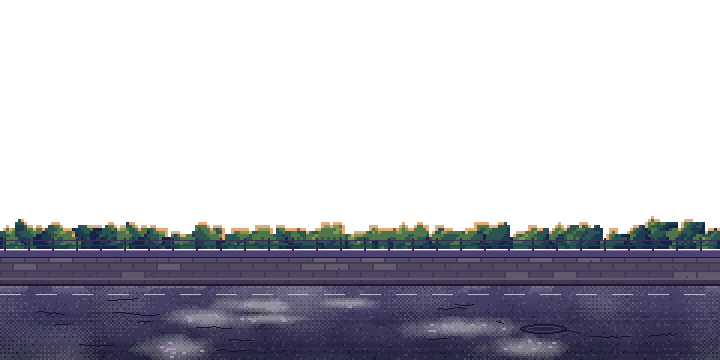
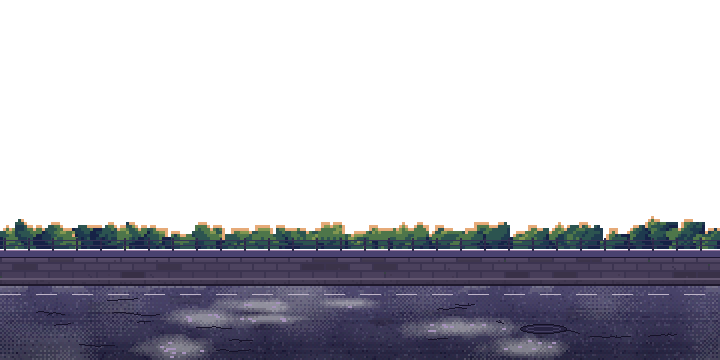
Livelier idle with overlapping action; opaque sidewalk
- Idle breathing now has four whole-pixel poses: shoulders drop first
  (a neck row is doubled, below the chin), the head follows with the
  hair tips lagging (a hair row doubled), then the hair settles (a shirt
  row hidden); each added/hidden row is the quietest in its area. Eight
  frames with the eyes-closed copies, timed by breath_steps.
- Sidewalk slabs, grout and kerb edge are fully opaque, so the
  reflection layers no longer show through damp slabs.

Claude-Session: https://claude.ai/code/session_011NAKRUA9btL4iodwTEM3Dh

diff --git a/tools/make_idle_anim.py b/tools/make_idle_anim.py
@@ -1,16 +1,16 @@
 """Make the idle (standing) frames from the single idle sprite, no video needed.
 
-Pixel-art breathing: the head and shoulders drop by exactly one pixel as a rigid
-block (nothing is stretched or duplicated, so the face keeps its shape); one row of
-the shirt disappears under them. The script picks the shirt row that looks most like
-the row above it, so the missing row doesn't show.
-
-Output: 4 frames side by side, the same size as the input:
-  0 rest, 1 breathed out (upper body 1px lower), 2 and 3 the same with eyes closed
+Pixel-art breathing with overlapping action, whole pixels only (nothing stretched):
+  0 rest
+  1 shoulders 1px down, head still (the neck gains one row)
+  2 head follows, hair tips still up (the hair gains one row)
+  3 everything 1px down, hair settled (one shirt row hidden under the chest)
+then 4-7 are the same four poses with the eyes closed. Every added or hidden row is
+the one in its area that looks most like its neighbour, so the face and chin keep
+their exact shape and no seam shows.
 
 Usage:
-  python3 tools/make_idle_anim.py assets/characters/hero_uniform.png assets/characters/hero_idle.png \\
-      --eyes 11,15 12,15 17,15 18,15
+  python3 tools/make_idle_anim.py assets/characters/hero_uniform.png assets/characters/hero_idle.png
 """
 import argparse
 
@@ -31,11 +31,13 @@ def close_eyes(a, eyes):
     return out
 
 
-def drop_upper(a, row):
-    """Move every row above `row` down one pixel; `row` itself is covered."""
+def drop(a, top, row):
+    """Move rows top..row-1 down one pixel (row `row` is covered). Row `top` keeps its
+    old content, i.e. it is doubled (top = 0 leaves an empty first row instead)."""
     out = a.copy()
-    out[1:row + 1] = a[0:row]
-    out[0] = 0
+    out[top + 1:row + 1] = a[top:row]
+    if top == 0:
+        out[0] = 0
     return out
 
 
@@ -55,14 +57,23 @@ def main():
                     help="x,y of the eye pixels (the white glint and the iris)")
     ap.add_argument("--chest", type=int, nargs=2, default=(36, 56), metavar=("FROM", "TO"),
                     help="shirt rows to choose the hidden row from")
+    ap.add_argument("--neck", type=int, nargs=2, default=(21, 27), metavar=("FROM", "TO"),
+                    help="neck/collar rows to choose the doubled row from (below the chin)")
+    ap.add_argument("--hair", type=int, nargs=2, default=(3, 9), metavar=("FROM", "TO"),
+                    help="hair rows to choose the doubled row from")
     args = ap.parse_args()
     eyes = [tuple(int(v) for v in e.split(",")) for e in args.eyes]
 
     a = np.asarray(Image.open(args.src).convert("RGBA"))
-    row = quiet_row(a, *args.chest)
-    down = drop_upper(a, row)
-    frames = [a, down, close_eyes(a, eyes), close_eyes(down, [(x, y + 1) for x, y in eyes])]
-    print("hidden row", row)
+    chest = quiet_row(a, *args.chest)
+    neck = quiet_row(a, *args.neck)
+    hair = quiet_row(a, *args.hair)
+    shoulders = drop(a, neck, chest)
+    head = drop(a, hair, chest)
+    down = drop(a, 0, chest)
+    poses = [(a, 0), (shoulders, 0), (head, 1), (down, 1)]
+    frames = [p for p, _ in poses] + [close_eyes(p, [(x, y + dy) for x, y in eyes]) for p, dy in poses]
+    print("rows: hair", hair, "neck", neck, "chest", chest)
     h, w = a.shape[:2]
     sheet = Image.new("RGBA", (w * len(frames), h), (0, 0, 0, 0))
     for i, f in enumerate(frames):

diff --git a/tools/compose_sunset_scene.py b/tools/compose_sunset_scene.py
@@ -469,12 +469,12 @@ def tile_noise(h, w, cell, nrng):
 def sidewalk(block=2):
     """Thai sidewalk where the hero walks: rows of concrete paving slabs (smaller far
     away), worn and patched, then a plain concrete kerb down to the street.
-    Mostly opaque: damp slabs only let a little reflection through."""
+    Fully opaque (damp slabs are just darker), so nothing below shows through."""
     sr = random.Random(17)
     w, h = TILE // block, 360 // block
     img = Image.new("RGBA", (w, h), (0, 0, 0, 0))
     d = ImageDraw.Draw(img)
-    grout, moss = (60, 52, 80, 245), (54, 66, 66, 245)
+    grout, moss = (60, 52, 80, 255), (54, 66, 66, 255)
     y = ROAD_TOP // block
     rows = []
     for k, rh in enumerate((3, 4, 4)):                 # slab rows, far to near (foreshortened)
@@ -486,7 +486,7 @@ def sidewalk(block=2):
             tone = sr.uniform(-3, 3) - k * 3                          # subtle: the ground stays quiet
             base = (int(78 + tone), int(68 + tone), int(96 + tone))
             damp = sr.random() < 0.18
-            a = 205 if damp else 245
+            a = 255
             if damp:
                 base = tuple(int(c * 0.8) for c in base)
             xs = [(x % w) for x in range(x0, x0 + 12)]
@@ -499,12 +499,12 @@ def sidewalk(block=2):
                 cx = xs[0] + sr.randint(3, 8)
                 d.line([((cx) % w, y0 + 1), ((cx + 2) % w, y1)], fill=grout)
             if sr.random() < 0.12:                                    # stain
-                d.point(((xs[0] + sr.randint(2, 10)) % w, sr.randint(y0 + 1, y1)), fill=(66, 56, 82, 245))
+                d.point(((xs[0] + sr.randint(2, 10)) % w, sr.randint(y0 + 1, y1)), fill=(66, 56, 82, 255))
             if sr.random() < 0.15:                                    # moss in the joint
                 d.point((xs[0], sr.randint(y0, y1)), fill=moss)
         d.line([(0, y1), (w, y1)], fill=grout)
     ky = KERB_Y // block
-    d.line([(0, ky - 1), (w, ky - 1)], fill=(98, 86, 112, 250))      # kerb top edge, faintly lit
+    d.line([(0, ky - 1), (w, ky - 1)], fill=(98, 86, 112, 255))      # kerb top edge, faintly lit
     for x0 in range(0, w, 18):                                       # plain concrete kerb blocks
         tone = sr.uniform(-6, 6)
         col = (int(66 + tone / 2), int(57 + tone / 2), int(82 + tone / 2), 255)

diff --git a/README.md b/README.md
@@ -50,7 +50,7 @@ assets/textures/         texture พิกเซลสำหรับฉาก H
 - วาดรถไฟฟ้าพิกเซล 4 ตู้ (พิกเซล 2x2) สีขาว/น้ำเงิน/เส้นแดง หน้ารถสีดำ (`make_train`) ล้อวางบนรางหน้าพอดี อยู่ในชั้นของตัวเอง (`TrainLayer`, ความเร็ว parallax เท่าทางรถไฟ ไม่วาดซ้ำ)
   วิ่งผ่านจอจากนอกจอซ้ายไปพ้นจอขวา (`across_screen` ใน `train.gd`)
 - ตัวละครเดินบนทางเท้า (`sidewalk`, พิกเซล 2x2): แผ่นคอนกรีตเรียงสลับ 3 แถว (แถวไกลบีบเล็กกว่า ทางเท้าแคบเพราะมองจากด้านข้าง) มีรอยแตก คราบ มอสตามร่อง
-  แผ่นที่ชื้นเห็นเงาสะท้อนนิดเดียว ขอบทางเท้าเป็นปูนเปลือยลงไปที่ถนน; เงาสะท้อนตัวละครจางและสั้นเพราะทางเท้าไม่ค่อยสะท้อน
+  แผ่นที่ชื้นสีเข้มกว่า (ทึบทั้งหมด ไม่เห็นอะไรทะลุ) ขอบทางเท้าเป็นปูนเปลือยลงไปที่ถนน; เงาสะท้อนตัวละครจางและสั้นเพราะทางเท้าไม่ค่อยสะท้อน
 - วาดถนนยางมะตอย (`road_surface`, พิกเซล 2x2) มีเม็ดหิน รอยปะ คราบน้ำมัน รอยล้อ รอยร้าว ความเปียกไล่ระดับแบบ dither จากแห้งไปแอ่งน้ำ (แอ่งลึกสุดยังเห็นยางมะตอยครึ่งหนึ่ง มีประกายระลอกน้ำ ไม่ใสเป็นกระจก), เงาท้องฟ้า+ทางรถไฟ, เงาสะท้อนรถไฟที่วิ่งตาม (`scripts/follow_x.gd`)
   และเงาสะท้อนตัวละครแบบกลับหัวมีระลอกน้ำ (`shaders/water_reflection.gdshader`)
 - รั้วและแนวพุ่มไม้วาดที่ 1/3 ความละเอียดแล้วขยาย 3 เท่า ให้พิกเซลใหญ่เท่าภาพต้นฉบับ
@@ -92,9 +92,9 @@ assets/textures/         texture พิกเซลสำหรับฉาก H
 python3 tools/make_idle_anim.py assets/characters/hero_uniform.png assets/characters/hero_idle.png
 ```
 
-สร้าง 4 เฟรมจากภาพยืนภาพเดียวแบบพิกเซลอาร์ต: หายใจออก = หัวและไหล่ลง 1px ทั้งก้อน (ไม่ยืด ไม่ซ้ำแถว หน้าจึงไม่เพี้ยน)
-โดยแถวเสื้อที่หายไปคือแถวที่เหมือนแถวข้างบนที่สุด (มองไม่เห็น) และทั้งสองท่ามีแบบหลับตา
-`hero_walker.gd` ค้างท่าละ `breath_in_time` / `breath_out_time` วินาที และกะพริบตาแบบสุ่มทุก 2-5 วินาที
+สร้าง 8 เฟรมจากภาพยืนภาพเดียวแบบพิกเซลล้วน (ไม่ยืด): ปกติ → ไหล่ลง 1px (หัวยังอยู่) → หัวตามลง (ปลายผมค้าง)
+→ ลงสุดผมตกตาม และทั้ง 4 ท่าแบบหลับตา แถวที่เพิ่ม/หายแต่ละจุด (คอ ผม เสื้อ) คือแถวที่เหมือนแถวข้างเคียงที่สุด
+หน้าและคางจึงไม่เพี้ยน `hero_walker.gd` เล่นตาม `breath_steps` และกะพริบตาแบบสุ่มทุก 2-5 วินาที
 
 ### นำเข้าท่าเดินจากวิดีโอฉากเขียว
 
